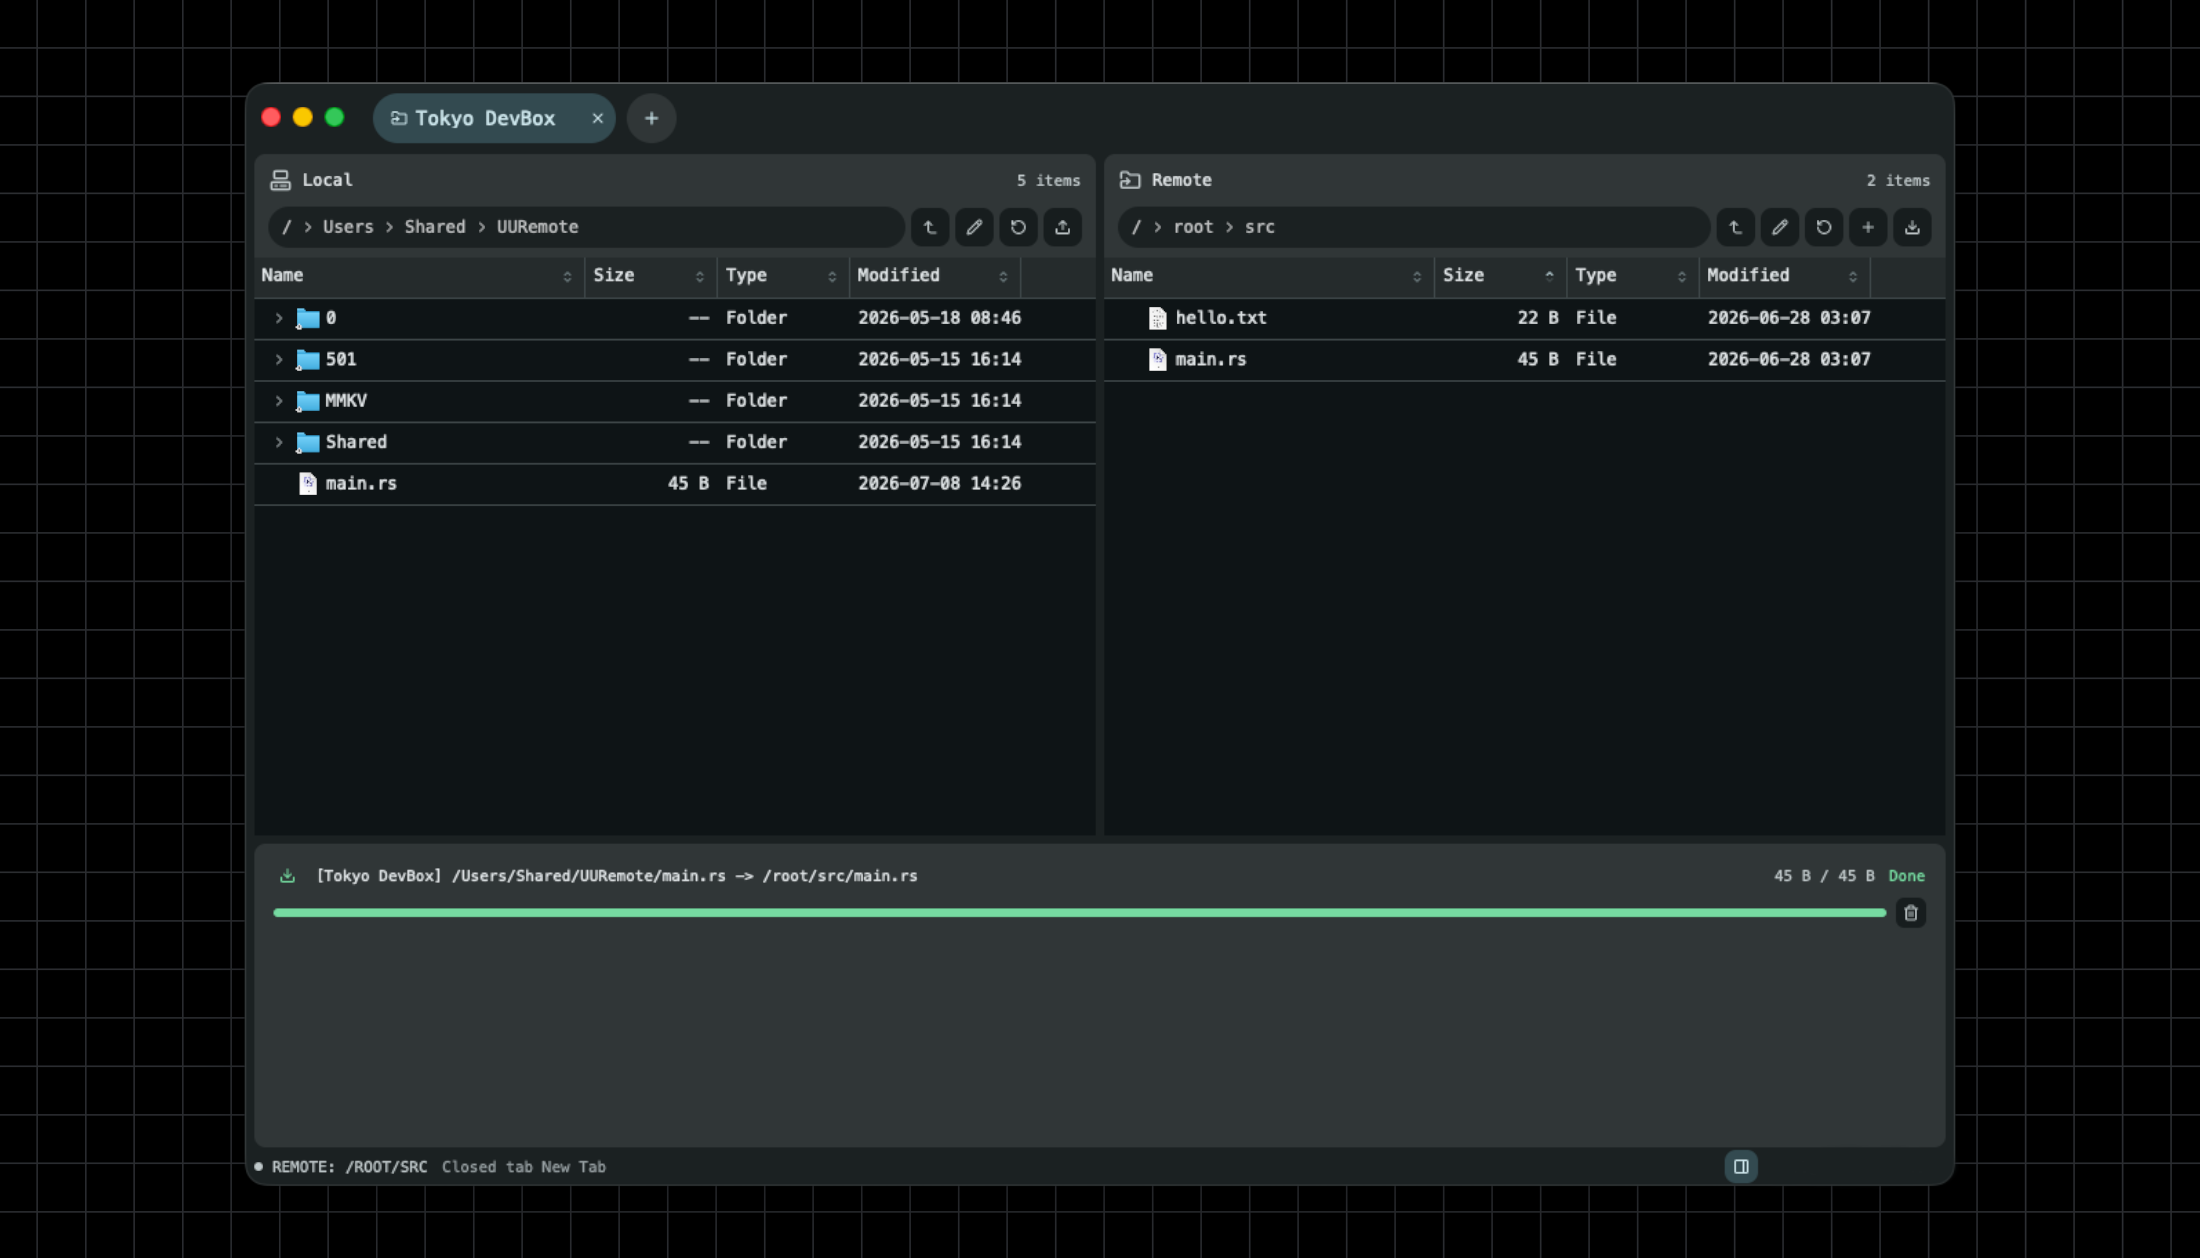
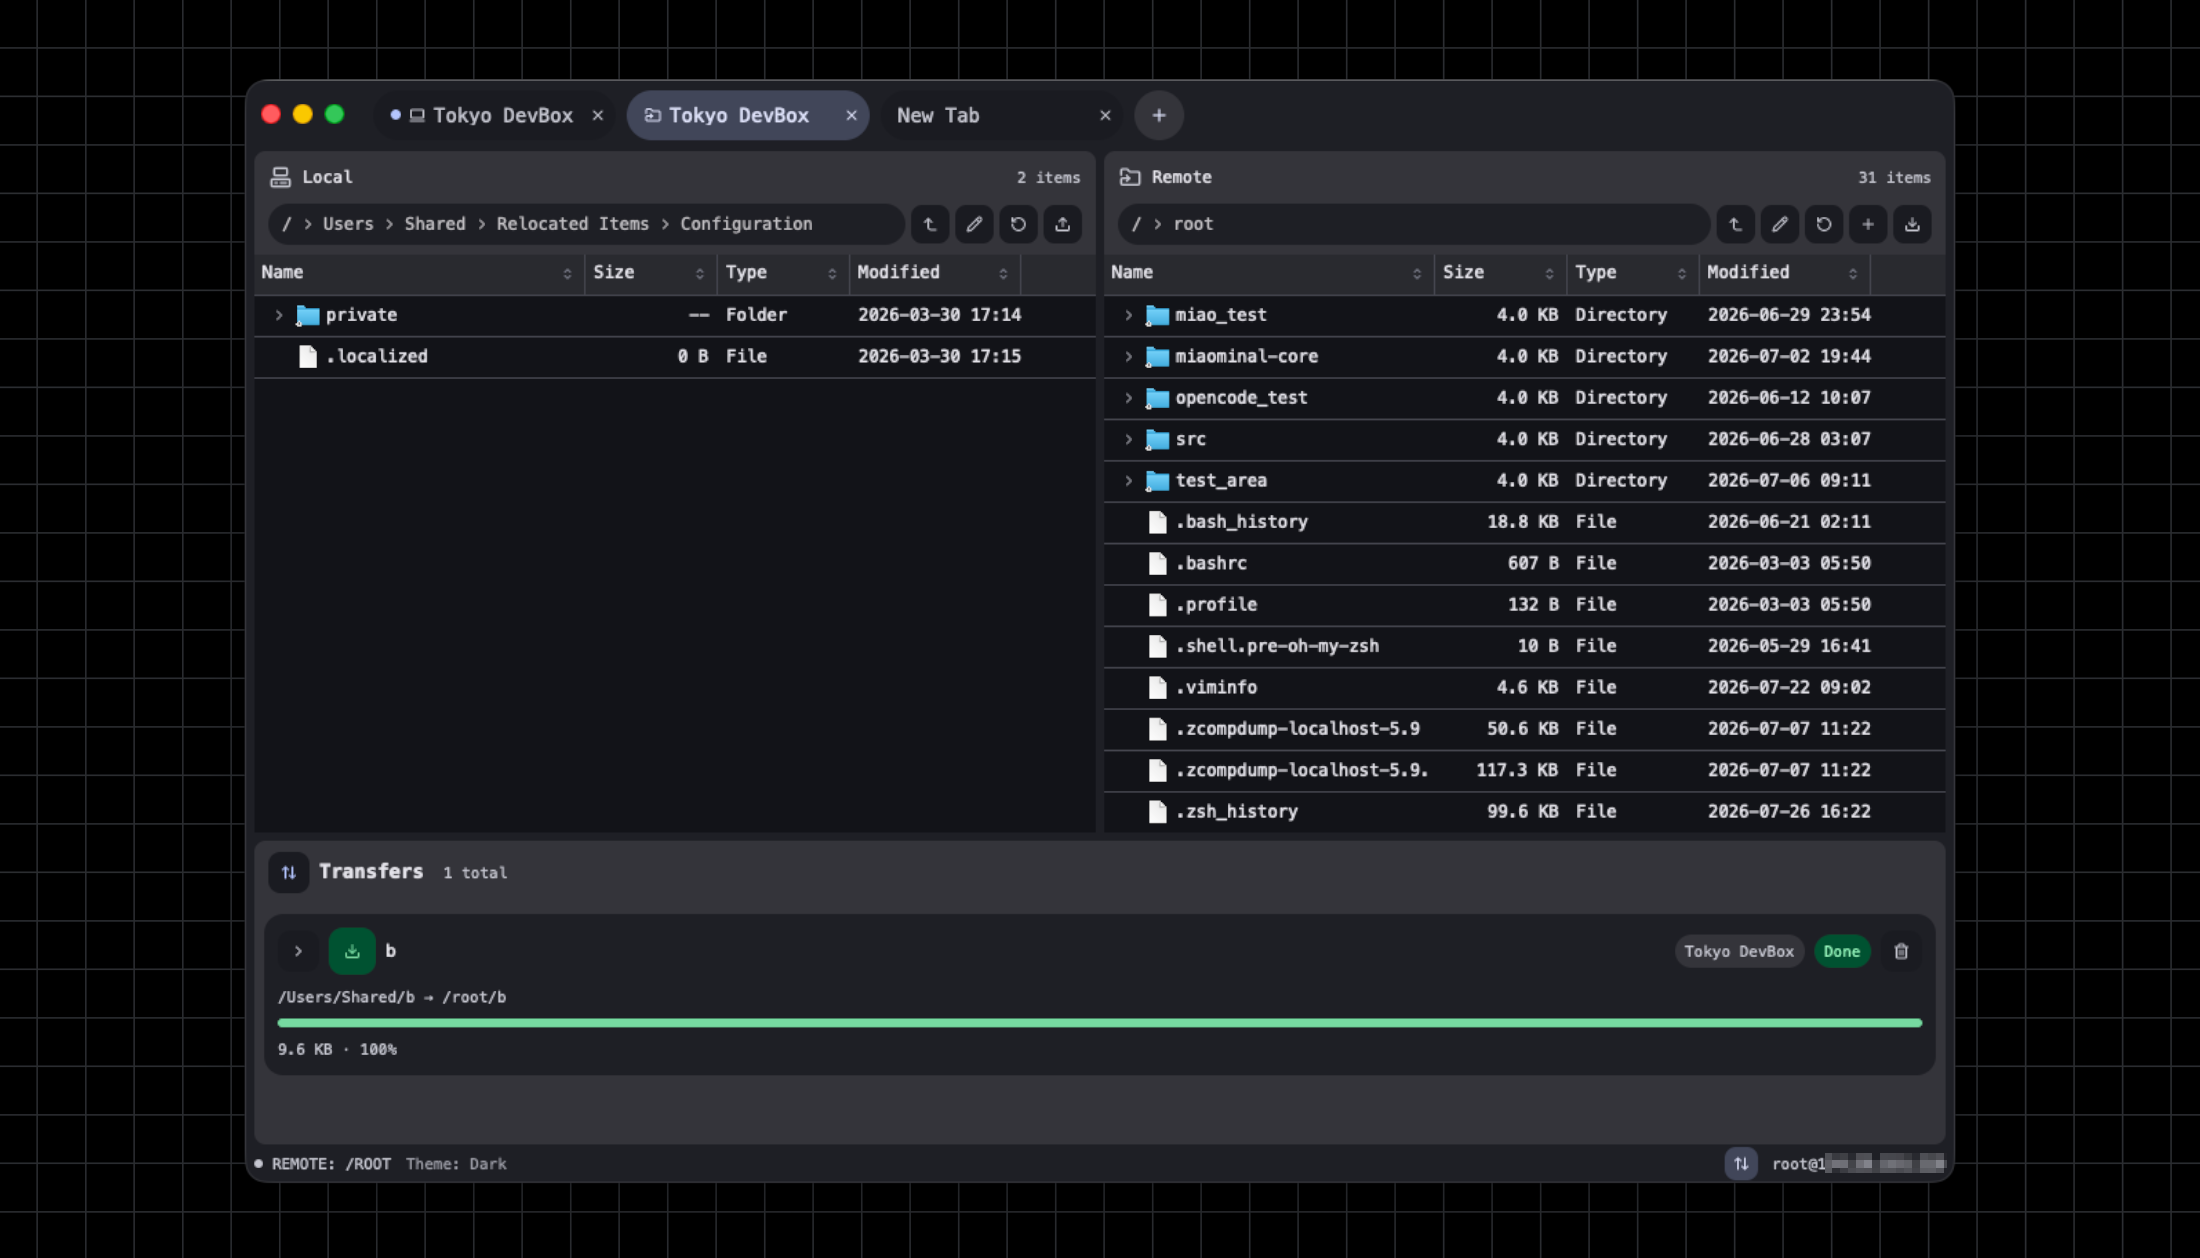
docs: update README installation and agent mode descriptions

diff --git a/.github/README.md b/.github/README.md
@@ -39,22 +39,22 @@
 
 ## Installation
 
+### macOS
+
+1. Download `Miaominal-macos-arm64.dmg` from [Releases](https://github.com/cppakko/miaominal/releases/latest).
+2. Open the `.dmg` and drag `Miaominal.app` into `Applications`.
+
+> [!WARNING]
+> Miaominal is not notarized. If macOS blocks the app, remove the quarantine attribute:
+> ~~~ bash
+> xattr -dr com.apple.quarantine /Applications/Miaominal.app
+> ~~~
+
 ### Windows
 
 1. Download `Miaominal-windows-x64-setup.exe` from [Releases](https://github.com/cppakko/miaominal/releases/latest).
 2. Run the installer and follow the prompts.
    - You can also download `Miaominal-windows-x64-standalone.exe` and launch it directly.
-
-### macOS
-
-1. Download `Miaominal-macos-arm64.dmg` from [Releases](https://github.com/cppakko/miaominal/releases/latest).
-2. Open the `.dmg` and drag `Miaominal.app` into `Applications`.
-3. If macOS blocks the unsigned app, try running:
-
-~~~ bash
-spctl --global-disable
-xattr -dr com.apple.quarantine /Applications/Miaominal.app
-~~~
 
 ### Linux
 
@@ -100,10 +100,10 @@ Open an Agent panel next to the current session and use a configurable provider 
 
 | Execution mode | Best for | Tool and approval behavior |
 | --- | --- | --- |
-| **ASK** | Understanding a project, searching files, or answering questions only. | Only read-only tools, `web_search` / `web_fetch`, and user questions are available. It does not run commands or modify files. |
-| **Run** | The default mode for daily development and operations. | All tools are available. Web search / fetch can run directly, while file edits, non-read-only shell commands, and high-risk operations go through approval or risk checks. |
-| **Non-blocking** | Letting the Agent plan and list operations first, then approving them one by one. | All tools are available, but tool calls pause for approval except when asking the user a question. Approved calls then continue. |
-| **Full Auto** | Explicitly authorizing the Agent to complete a task continuously. | All tools are available and run automatically, while basic path normalization, execution timeouts, and output limits remain in place. |
+| **Ask** | Understanding a project, searching files, or answering questions only. | Only read-only tools, `web_search` / `web_fetch`, and user questions are available. It does not run commands or modify files. |
+| **Execute** | The default mode for daily development and operations. | All tools are available. Web search / fetch can run directly, while file edits, non-read-only shell commands, and high-risk operations go through approval or risk checks. |
+| **Non-blocking** | Letting the Agent plan and list operations first, then approving them one by one. | All tools are available and policy enforcement is bypassed entirely; tool calls pause for approval before executing. Only `..` and `~` path normalization is always enforced. |
+| **Full Auto** | Explicitly authorizing the Agent to complete a task continuously. | All tools are available, policy enforcement is bypassed entirely, and tool calls execute automatically. Only `..` and `~` path normalization is always enforced. |
 
 <p align="center">
     <img src="./assets/agent.png" width="760" style="border-radius: 10px;" alt="Session Agent panel screenshot" />

diff --git a/.github/README_zh.md b/.github/README_zh.md
@@ -38,22 +38,22 @@
 
 ## 安装
 
+### macOS
+
+1. 从 [Releases](https://github.com/cppakko/miaominal/releases/latest) 下载 `Miaominal-macos-arm64.dmg`。
+2. 打开 `.dmg`，把 `Miaominal.app` 拖入 `Applications`。
+
+> [!WARNING]
+> Miaominal 未经过公证签名。如果 macOS 阻止启动，请移除隔离属性：
+> ~~~ bash
+> xattr -dr com.apple.quarantine /Applications/Miaominal.app
+> ~~~
+
 ### Windows
 
 1. 从 [Releases](https://github.com/cppakko/miaominal/releases/latest) 下载 `Miaominal-windows-x64-setup.exe`。
 2. 运行安装包并按提示安装。
    - 也可以下载 `Miaominal-windows-x64-standalone.exe` 直接启动。
-
-### macOS
-
-1. 从 [Releases](https://github.com/cppakko/miaominal/releases/latest) 下载 `Miaominal-macos-arm64.dmg`。
-2. 打开 `.dmg`，把 `Miaominal.app` 拖入 `Applications`。
-3. 如果系统拦截未签名应用，请尝试运行
-
-~~~ bash
-spctl --global-disable
-xattr -dr com.apple.quarantine /Applications/Miaominal.app
-~~~
 
 ### Linux
 
@@ -99,10 +99,10 @@ chmod +x Miaominal-linux-x86_64.AppImage
 
 | 执行模式 | 适合场景 | 工具与审批差别 |
 | --- | --- | --- |
-| **ASK** | 只想让 Agent 帮忙理解项目、检索文件或回答问题。 | 仅开放只读工具、`web_search` / `web_fetch` 和向用户提问，不执行命令或修改文件。 |
+| **Ask** | 只想让 Agent 帮忙理解项目、检索文件或回答问题。 | 仅开放只读工具、`web_search` / `web_fetch` 和向用户提问，不执行命令或修改文件。 |
 | **执行** | 日常开发与运维的默认模式。 | 开放全部工具；网页搜索 / 抓取可直接运行，文件修改、非只读 shell 命令和高风险操作会经过审批或风险策略检查。 |
-| **非阻断** | 想让 Agent 先规划并列出要做的操作，再逐项确认。 | 开放全部工具，但除向用户提问外，工具调用会暂停在审批状态，批准后才继续执行。 |
-| **全自动** | 明确授权 Agent 连续完成任务。 | 开放全部工具并自动执行；仍保留基础路径规范化、执行超时和输出限制。 |
+| **非阻断** | 想让 Agent 先规划并列出要做的操作，再逐项确认。 | 开放全部工具，完全跳过策略审查；工具调用执行前暂停等待批准。仅 `..` 和 `~` 路径规范化始终强制。 |
+| **全自动** | 明确授权 Agent 连续完成任务。 | 开放全部工具，完全跳过策略审查，工具调用自动执行。仅 `..` 和 `~` 路径规范化始终强制。 |
 
 <p align="center">
     <img src="./assets/agent.png" width="760" style="border-radius: 10px;" alt="Session Agent panel screenshot" />
